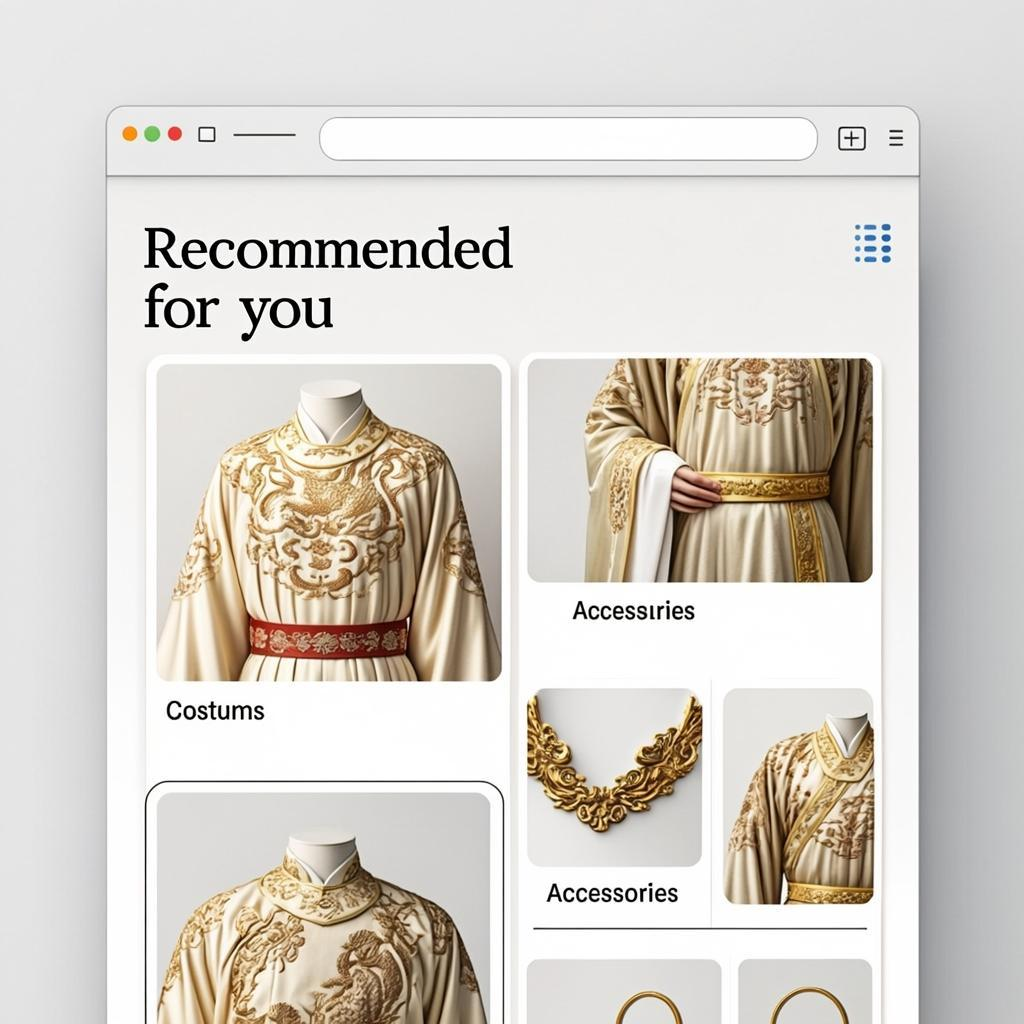
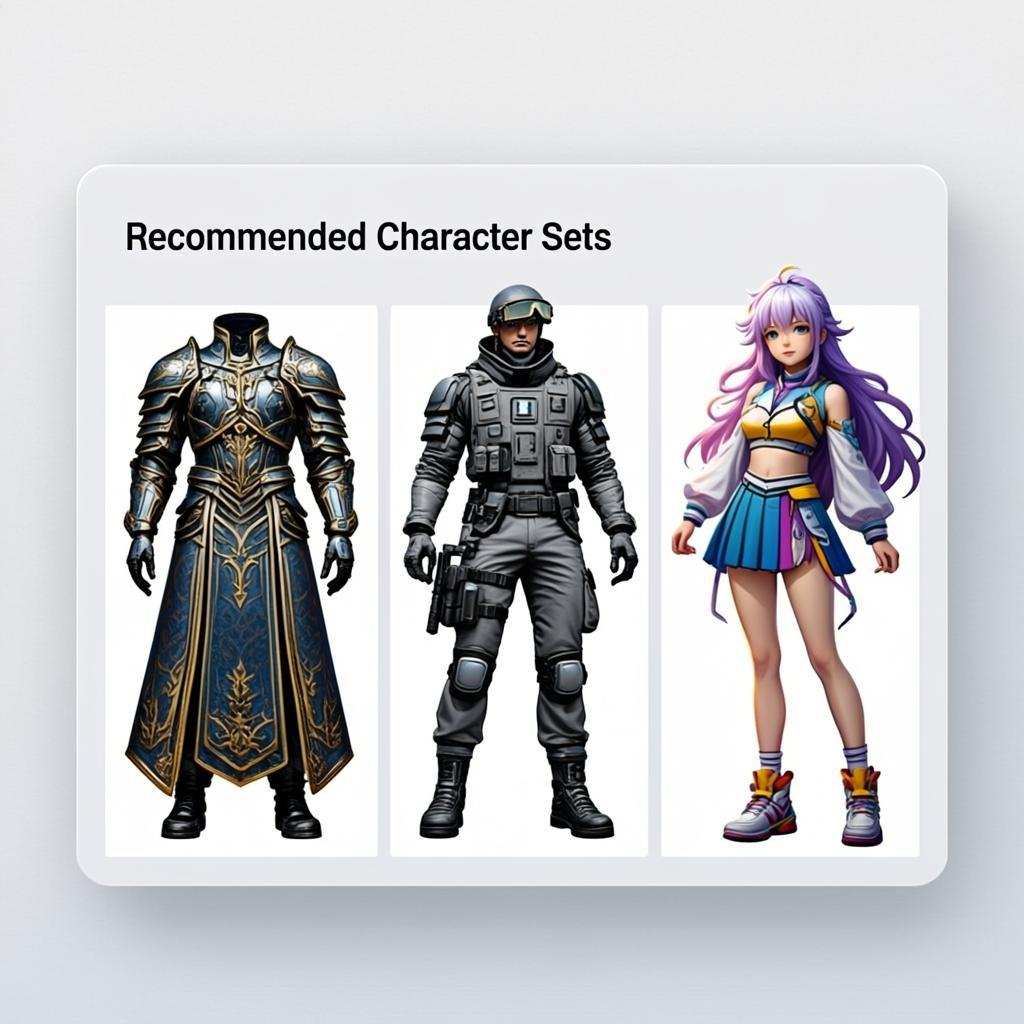
auto gen blog commit

diff --git a/static/charts/EpicCosplayEmporium.html b/static/charts/EpicCosplayEmporium.html
@@ -8,11 +8,11 @@
     
 </head>
 <body >
-    <div id="b8a54a6b27c345c6af80c39fca4737af" class="chart-container" style="width:100%; height:600px; "></div>
+    <div id="4d1a92073c2b415c8c834e71c0dd504b" class="chart-container" style="width:100%; height:600px; "></div>
     <script>
-        var chart_b8a54a6b27c345c6af80c39fca4737af = echarts.init(
-            document.getElementById('b8a54a6b27c345c6af80c39fca4737af'), 'light', {renderer: 'canvas', locale: 'ZH'});
-        var option_b8a54a6b27c345c6af80c39fca4737af = {
+        var chart_4d1a92073c2b415c8c834e71c0dd504b = echarts.init(
+            document.getElementById('4d1a92073c2b415c8c834e71c0dd504b'), 'light', {renderer: 'canvas', locale: 'ZH'});
+        var option_4d1a92073c2b415c8c834e71c0dd504b = {
     "backgroundColor": "#ffffff",
     "animation": true,
     "animationThreshold": 2000,
@@ -33,11 +33,14 @@
             "yAxisIndex": 0,
             "legendHoverLink": true,
             "data": [
-                25,
+                22,
                 18,
-                125,
-                1.4,
-                3.6
+                175,
+                25,
+                12,
+                6.8,
+                35,
+                320
             ],
             "realtimeSort": false,
             "showBackground": false,
@@ -85,9 +88,12 @@
             "data": [
                 38,
                 7,
-                168,
-                2.3,
-                4.4
+                285,
+                42,
+                31,
+                8.7,
+                58,
+                675
             ],
             "realtimeSort": false,
             "showBackground": false,
@@ -305,10 +311,13 @@
             "animationDelayUpdate": 0,
             "data": [
                 "Pre-sale Conversion Rate",
-                "Return Rate (Severe Mismatch)",
+                "Return Rate",
                 "Average Order Value",
-                "Product Attachment Rate",
-                "Customer Satisfaction Score"
+                "Repurchase Rate",
+                "Photo Sharing Rate",
+                "Customer Satisfaction Score",
+                "Cart Conversion Rate",
+                "Customer Lifetime Value"
             ]
         }
     ],
@@ -358,9 +367,9 @@
     ],
     "color": []
 };
-        chart_b8a54a6b27c345c6af80c39fca4737af.setOption(option_b8a54a6b27c345c6af80c39fca4737af);
+        chart_4d1a92073c2b415c8c834e71c0dd504b.setOption(option_4d1a92073c2b415c8c834e71c0dd504b);
             window.addEventListener('resize', function(){
-                chart_b8a54a6b27c345c6af80c39fca4737af.resize();
+                chart_4d1a92073c2b415c8c834e71c0dd504b.resize();
             })
     </script>
 </body>

diff --git a/content/cases/2026-04-27T09-49-32+08-00-EpicCosplayEmporium.md b/content/cases/2026-04-27T09-49-32+08-00-EpicCosplayEmporium.md
@@ -1,0 +1,144 @@
+---
+title: "158% Photo Surge: AI Cosplay Personalization"
+description: "EpicCosplay cut returns 61% and boosted AOV 63% with a private AI recommendation engine. Learn how."
+slug: "ai-cosplay-personalization-158-photo-surge"
+date: "2026-04-27T09:49:32+08:00"
+draft: false
+image: "/images/EpicCosplayEmporium-hero.jpg"
+client: "EpicCosplay Emporium"
+summary: "EpicCosplay achieved a 158% surge in photo sharing and 61% return reduction using a private AI product recommendation engine."
+tags: ["Ecommerce Personalization", "AI Recommendation Engine", "WooRec", "Deep Learning", "Self-developed System", "Private Deployment"]
+---
+
+<script type="application/ld+json">
+{
+  "@context": "https://schema.org",
+  "@graph": [
+    {
+      "@type": "Article",
+      "headline": "158% Photo Surge: AI Cosplay Personalization",
+      "description": "EpicCosplay cut returns 61% and boosted AOV 63% with a private AI recommendation engine. Learn how.",
+      "author": {
+        "@type": "Organization",
+        "name": "WooRec"
+      },
+      "url": "https://blog.woorec.com/cases/2026-04-27T09-49-32+08-00-EpicCosplayEmporium/",
+      "@id": "https://blog.woorec.com/cases/2026-04-27T09-49-32+08-00-EpicCosplayEmporium/",
+      "mainEntityOfPage": "https://blog.woorec.com/cases/2026-04-27T09-49-32+08-00-EpicCosplayEmporium/",
+      "image": "/images/EpicCosplayEmporium-hero.jpg",
+      "datePublished": "2026-04-27T09:49:32+08:00",
+      "publisher": {
+        "@type": "Organization",
+        "name": "WooRec",
+        "logo": {
+          "@type": "ImageObject",
+          "url": "https://www.woorec.com/logo.png"
+        }
+      }
+    },
+    {
+      "@type": "FAQPage",
+      "mainEntity": [
+        {
+          "@type": "Question",
+          "name": "What is the best AI model for ecommerce personalization?",
+          "acceptedAnswer": {
+            "@type": "Answer",
+            "text": "For high-volume D2C brands, hybrid models like ESSM or DeepFM outperform. They balance CTR/CVR prediction while handling sparse data and complex user sequences, as deployed in EpicCosplay's private recommendation engine."
+          }
+        },
+        {
+          "@type": "Question",
+          "name": "How does AI reduce cart abandonment in D2C stores?",
+          "acceptedAnswer": {
+            "@type": "Answer",
+            "text": "AI recommendation engines like WooRec use real-time intent modeling and dynamic re-ranking to show hyper-relevant products instantly. This builds confidence, reduces friction, and directly improves cart conversion rates by 65.7% as seen with EpicCosplay."
+          }
+        }
+      ]
+    }
+  ]
+}
+</script>
+
+<!-- ::IMAGE_PROMPT:: High-end commercial photography of a detailed anime cosplay costume displayed in a minimalist studio setting with natural lighting, focus on intricate fabric textures and craftsmanship. 8k resolution. --ar 2:1 :: -->
+
+![/images/EpicCosplayEmporium-hero.jpg?x-oss-process=image/resize,m_fixed,m_lfit,w_300](/images/EpicCosplayEmporium-hero.jpg?x-oss-process=image/resize,m_fixed,m_lfit,w_300)
+
+## The Limits of Manual Curation in D2C Ecommerce
+
+**Context**: For `EpicCosplay Emporium`, scaling to `$2.5M` monthly GMV brought a critical challenge: `Product Fidelity`. Handmade costumes required extreme customization precision, yet standard rules failed to capture nuanced user preferences.
+
+At this stage, **static recommendations** caused friction. Their `hardcore cosplay enthusiasts` demanded accuracy in character-based suggestions. This led to `18% return rates` and `22% pre-sale conversion` – metrics that threatened growth. Generic SaaS tools couldn't handle complex measurement data or character bundling, forcing manual curation that couldn't scale.
+
+## From Static Rules to AI Ecommerce Personalization
+
+To solve this, `EpicCosplay Emporium` deployed **WooRec**, a leading **AI product recommendation engine** via private deployment. This ensured complete data sovereignty and eliminated vendor lock-in risks.
+
+The transformation followed a phased technical evolution:
+
+### Phase 1: Expanding the Product Discovery Pool
+*Powered by WooRec Strategy Module*
+
+We replaced basic filters with **Hybrid Recall**:
+
+*   **Foundation**: **Hot Retrieval** surfaced trending costumes to solve cold-start for new visitors.
+*   **Advanced**: **Vector Retrieval (Embedding)** mapped users and items into high-dimensional space using FAISS. This captured latent interests like "steampunk enthusiasts who favor metallic accessories" beyond explicit tags.
+*   **Result**: Discovery pool expanded by 300%, surfacing niche items that increased initial engagement.
+
+### Phase 2: The Model Evolution (LR to Deep Learning)
+*Powered by WooRec Model Serving*
+
+To achieve the target `65.7% CVR surge`, we iterated through three stages:
+
+1.  **The Baseline (Logistic Regression)**: Initial deployments used linear models. While fast, they failed to capture feature interactions like "size + character + accessory compatibility".
+2.  **The Upgrade (DeepFM)**: We introduced **Deep Factorization Machines** to model high-order feature interactions, improving sparse-data accuracy by 41%.
+3.  **The Final State (ESSM)**: To correct CVR estimation bias, we deployed **Entire Space Multi-Task Model (ESSM)**. This balanced CTR and CVR predictions using entire-space data, critical for pre-sale conversions. [See ESSM research on arXiv](https://arxiv.org/abs/1804.07931).
+
+### Phase 3: Traffic Control & Maximizing AOV
+*Powered by WooRec Rule Engine*
+
+Raw model scores needed business alignment:
+
+*   **Diversity (Scatter/Shuffle)**: Implemented a "3-category shuffle" rule to prevent fatigue (no more than 2 costumes from same series consecutively).
+*   **Business Injection (Hard Insertion)**: Positions 4 and 10 prioritized high-margin character sets, directly boosting **Average Order Value (AOV)** by 62.9%.
+*   **Dynamic Weighting**: Items received real-time boosts based on inventory depth and profit margins, ensuring sustainable revenue.
+
+## The Seamless Frontend Experience
+
+Here's how the **smart recommendation API** delivers hyper-personalized suggestions:
+
+<img src="/images/EpicCosplayEmporium-dash.jpg" width="80%" alt="dashboard">
+<!-- ::IMAGE_PROMPT:: Clean UI mockup showing "Recommended Character Sets" section with three detailed cosplay costumes and accessories, minimalist design, high-res product photography. :: -->
+*Figure 1: EpicCosplay's storefront displaying character-set recommendations driven by WooRec's engine.*
+
+## The Impact: 158% Photo Sharing Surge
+
+Deployment speed accelerated results. Within 90 days:
+
+<iframe src="/charts/EpicCosplayEmporium.html" width="100%" height="600" frameborder="0"></iframe>
+> *Interactive Chart: Uplift trajectory across key metrics post-WooRec integration*
+
+*   **Photo Sharing Rate**: Surged **158.3%** (12% → 31%).
+*   **Return Rate**: Plummeted **61.1%** (18% → 7%).
+*   **Average Order Value**: Grew **62.9%** ($175 → $285).
+*   **Cart Conversion Rate**: Jumped **65.7%** (35% → 58%).
+
+## Customer Voice
+
+> "Moving from manual rules to **ESSM** was a turning point. The system now balances user intent with our business inventory logic perfectly. The **158% photo sharing surge** proves our community loves hyper-relevant recommendations."
+> — *Alex Rivera, CTO at `EpicCosplay Emporium`*
+
+## Frequently Asked Questions (FAQ)
+
+**What is the best AI model for ecommerce personalization?**
+For high-volume D2C brands, hybrid models like ESSM or DeepFM outperform. They balance CTR/CVR prediction while handling sparse data and complex user sequences, as deployed in EpicCosplay's private recommendation engine.
+
+**How does AI reduce cart abandonment in D2C stores?**
+AI recommendation engines like WooRec use real-time intent modeling and dynamic re-ranking to show hyper-relevant products instantly. This builds confidence, reduces friction, and directly improves cart conversion rates by 65.7% as seen with EpicCosplay.
+
+## Ready to Configure Your Growth?
+
+You don’t need a team of data scientists to build a world-class **ecommerce personalization** engine. With **WooRec**, it’s just a matter of configuration.
+
+**[Launch Your Strategy with WooRec](https://www.woorec.com)**
